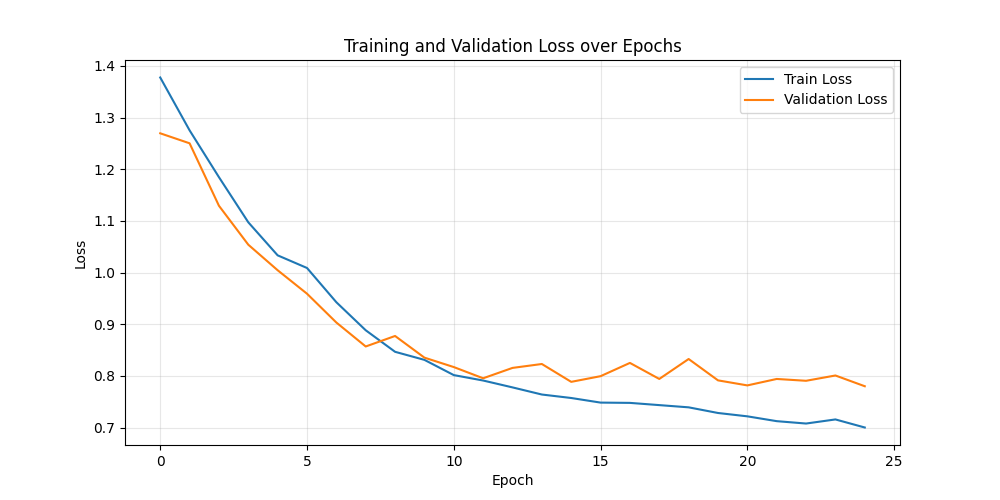
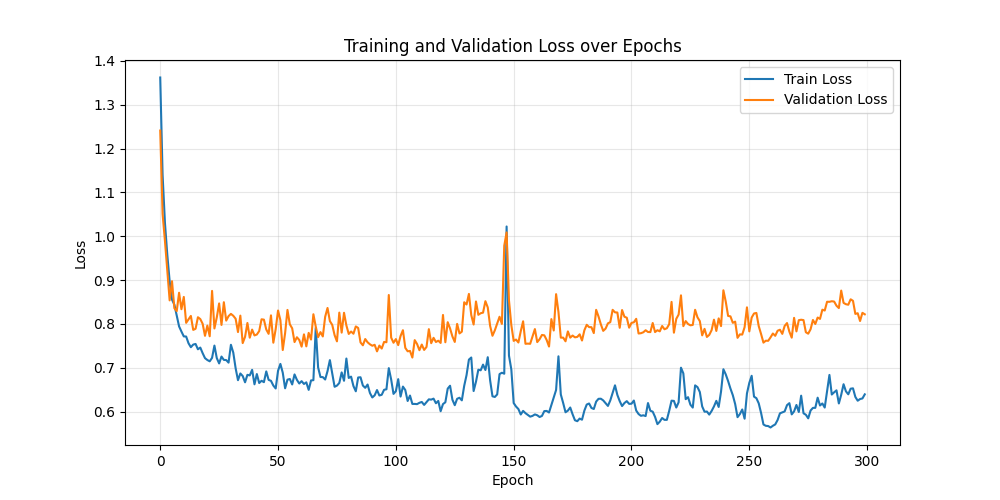
feat: Add slurm execution

diff --git a/vit_bc/train_vit.py b/vit_bc/train_vit.py
@@ -29,7 +29,7 @@ validation_dataloader = DataLoader(validation_dataset, batch_size=8, shuffle=Fal
 vit = ViTBC(
         image_size=8,
         patch_size=1,
-        num_layers=3,
+        num_layers=4,
         num_heads=8,
         hidden_dim=64,
         mlp_dim=128,
@@ -40,7 +40,7 @@ vit = ViTBC(
 
 vit.to(device)
 
-num_epochs = 25
+num_epochs = 300
 optimizer = torch.optim.Adam(vit.parameters(), lr=1e-3) # weight_decay=1e-4)
 # scheduler = CosineAnnealingLR(optimizer, T_max=num_epochs, eta_min=5e-6)
 
@@ -112,6 +112,6 @@ for epoch in range(num_epochs):
     #     break
 
 
-torch.save(vit.state_dict(), os.path.join(os.path.dirname(__file__), "models", "vit_bc.pth"))
+torch.save(vit.state_dict(), os.path.join(os.path.dirname(__file__), "models", "vit_4_layers.pth"))
 
-plot_loss_curve(train_losses, val_losses, os.path.join(os.path.dirname(__file__), "..", "imgs", "loss_curve.png"))
+plot_loss_curve(train_losses, val_losses, os.path.join(os.path.dirname(__file__), "..", "imgs", "loss_curve_4_layers.png"))
